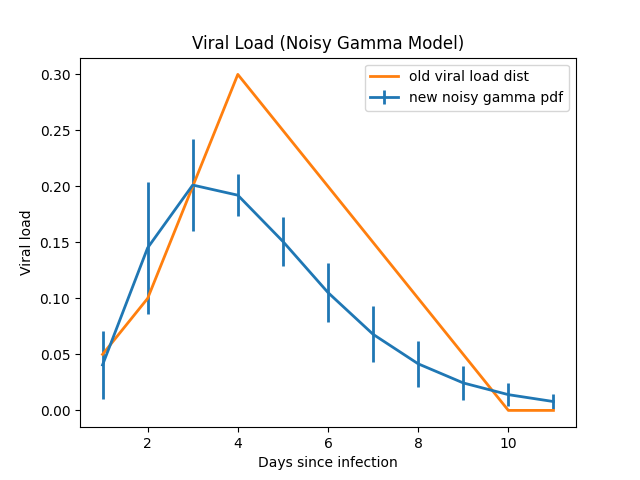
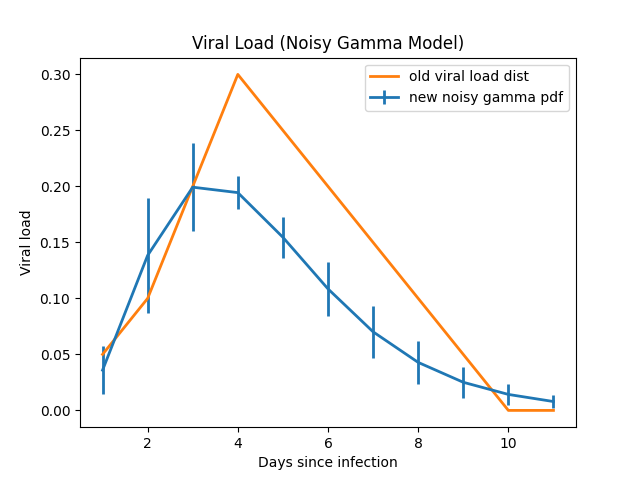
added a horrific sys path append to get this script to run in a subdir...

diff --git a/plots/viral_load_plot.py b/plots/viral_load_plot.py
@@ -1,3 +1,6 @@
+import sys
+import os
+sys.path.append(os.getcwd())
 import numpy as np
 from matplotlib import pyplot as plt
 from utils import _sample_viral_load
@@ -6,9 +9,10 @@ from utils import _sample_viral_load
 NUM_DAYS = 11
 viral_loads = []
 x = np.linspace(1, NUM_DAYS, NUM_DAYS)
+rng = np.random.RandomState(1)
 
 for i in range(100):
-    vals = _sample_viral_load().pdf(x)
+    vals = _sample_viral_load(rng).pdf(x)
     viral_loads.append(vals)
 viral_loads = np.array(viral_loads)
 
